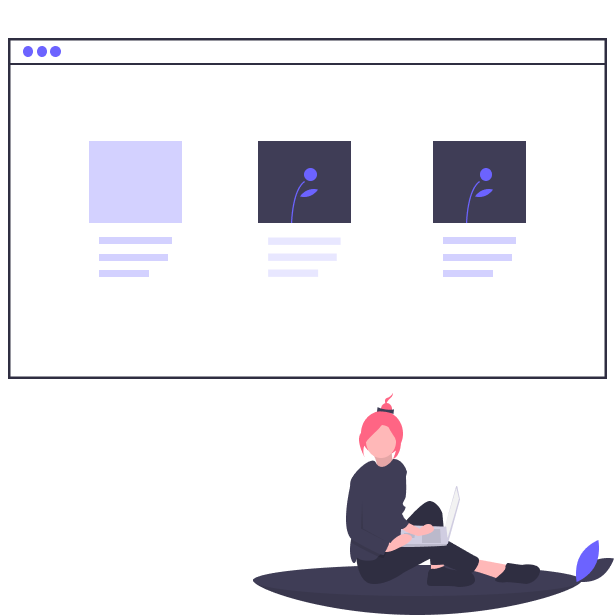
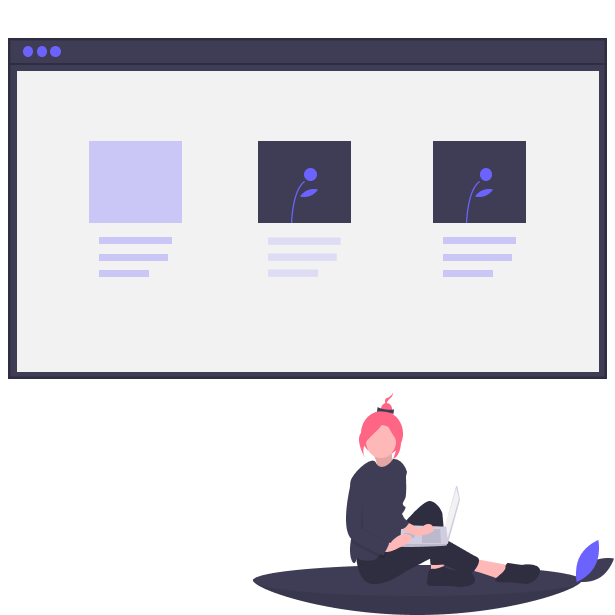
edit landing page

Changed region(s): [[0.0, 0.0618, 0.9886, 0.6179]]

diff --git a/src/css/custom.css b/src/css/custom.css
@@ -8,7 +8,7 @@
 /* You can override the default Infima variables here.   --ifm-color-primary: #25c2a0;*/
 
 :root {
-  --ifm-color-primary: #269de3;
+  --ifm-color-primary: #104b8b;
   --ifm-color-primary-dark: rgb(33, 175, 144);
   --ifm-color-primary-darker: rgb(31, 165, 136);
   --ifm-color-primary-darkest: rgb(26, 136, 112);
@@ -82,3 +82,16 @@ ol.interface-numbers {
   padding: 1px;
   border-radius: 0.50em;
   }
+
+.get-started {
+  background-color: rgb(235, 231, 255);
+  border: none;
+  color: #000;
+  transition: all 0.5s;
+  }
+  
+.get-started:hover{
+    background-color: rgb(213, 205, 255);
+    color:#000
+  }
+    

diff --git a/src/pages/index.js b/src/pages/index.js
@@ -70,7 +70,7 @@ export default function Home() {
           <div className={styles.buttons}>
             <Link
               className={clsx(
-                "button button--outline button--secondary button--lg",
+                "button button--outline button--lg get-started",
                 styles.getStarted
               )}
               to={useBaseUrl(

diff --git a/docusaurus.config.js b/docusaurus.config.js
@@ -16,7 +16,7 @@ module.exports = {
     },
     navbar: {
       hideOnScroll: true,
-      title: "WebStudio",
+      title: "Web Studio",
       logo: {
         alt: "4D Logo",
         src: "img/logo.png",
